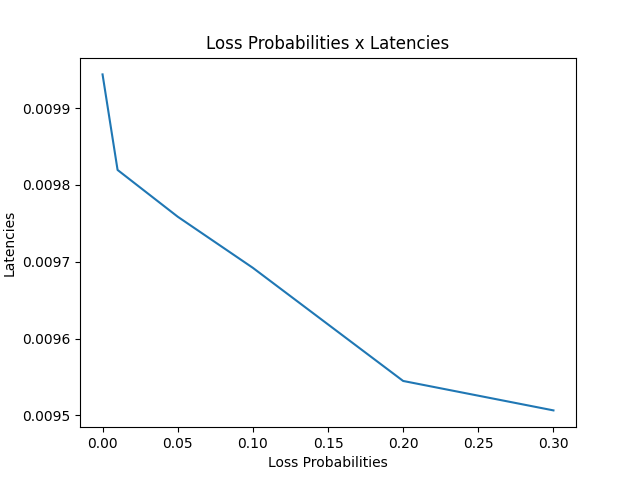
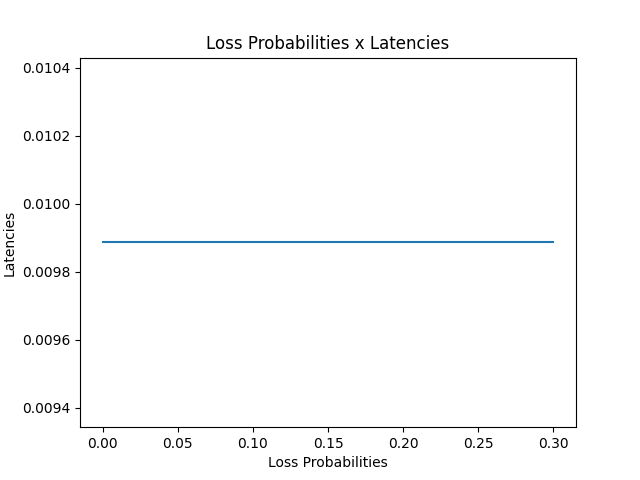
chore: updated README.md so it contains information about demo.ps1

diff --git a/app/main.cpp b/app/main.cpp
@@ -15,47 +15,76 @@ using namespace kns;
 
 int main(int argc, char* argv[]) {
 
-    std::cout << "Starting..." << std::endl;
+    std::cout << "Starting...\n";
 
-	if (argc < 2) {
-		std::cerr << "Usage: ./kns_app <topology_file> (e.g: if you are in app, then use ./topologies/mesh.json)\n";
-		return 1;
-	}
+    if (argc < 2) {
+        std::cerr << "Usage: ./kns_app <topology_file> "
+                     "(e.g: ./topologies/mesh.json)\n";
+        return 1;
+    }
 
+    kns::RunConfig runConfig{"results.csv", 1};
 
-    kns::RunConfig runConfig = {"results.csv", 1};
+    std::string path = argv[1];
 
-	std::string path = argv[1];
+    for (int i = 1; i < argc; i++) {
 
-    Topology topo = TopologyLoader::load_topology(path);
+        if (i + 1 >= argc) continue;
 
-    for (int i = 0; i < argc; i++) {
+        std::string arg = argv[i];
+        std::string value = argv[i + 1];
 
-        if (i+1 < argc) {
+        if (arg == "--seed") {
+            runConfig.seed = std::stoi(value);
 
-            if (std::string(argv[i]) == "--seed") {
-                runConfig.seed = std::stoi(argv[i+1]);
+        } 
+        else if (arg == "--out") {
+            runConfig.filename = value;
+        }
+        else if (arg == "--packet_size") {
 
-            } else if (std::string(argv[i]) == "--out") {
-                runConfig.filename = argv[i+1];
+            int size = std::stoi(value);
 
-            } else if (std::string(argv[i]) == "--loss_prob") {
-                if (std::stod(argv[i+1]) >= 0.0 && std::stod(argv[i+1]) <= 1.0) {
-                    std::vector<std::vector<Link>>& links = topo.getLinks();
-
-                    for (int j = 0; j < links.size(); j++) {
-                        for (int k = 0; k < links[j].size(); k++) {
-                            links.at(j).at(k).loss_prob = std::stod(argv[i+1]);
-                        }
-                    }
-                } else {
-                    throw std::runtime_error("Invalid value for loss_prob (should be between 0.0 and 1.0)");
-                }
+            if (size <= 0) {
+                throw std::runtime_error("packet_size must be > 0");
             }
+
+            runConfig.packet_size = size;
         }
     }
 
+    Topology topo = TopologyLoader::load_topology(path);
+
     SimulationEngine engine(topo);
+
+    for (int i = 1; i < argc; i++) {
+
+        if (i + 1 >= argc) continue;
+
+        std::string arg = argv[i];
+        std::string value = argv[i + 1];
+
+        if (arg == "--loss_prob") {
+
+            double prob = std::stod(value);
+
+            if (prob < 0.0 || prob > 1.0) {
+                throw std::runtime_error(
+                    "loss_prob must be between 0.0 and 1.0"
+                );
+            }
+
+            auto& links = topo.getLinks();
+
+            for (auto& row : links) {
+                for (auto& link : row) {
+                    link.loss_prob = prob;
+                }
+            }
+        } 
+    }
+
+    srand(runConfig.seed);
 
     for (int i = 0; i < 100; i++) {
         int source = i % topo.size();
@@ -65,13 +94,11 @@ int main(int argc, char* argv[]) {
             i * 0.01,
             source,
             dest,
-            1500
+            runConfig.packet_size
         );
 
         engine.schedule(std::move(event));
     }
-    
-    srand(runConfig.seed);
 
     engine.run();
 

diff --git a/core/include/engine/core/RunConfig.hpp b/core/include/engine/core/RunConfig.hpp
@@ -6,5 +6,6 @@ namespace kns {
     struct RunConfig {
         std::string filename;
         int seed;
+        int packet_size = 1500;
     };
 }

diff --git a/README.md b/README.md
@@ -1,5 +1,15 @@
 # KNS — Kilop's Network Simulator
 
+## Quick Start
+```bash
+.\scripts\demo.ps1
+```
+
+Prerequisits:
+ - CMake
+ - Visual Studio
+ - Python 3
+
 ## Overview
 
 KNS is a network simulator oriented to events, focusing on determinism, modularity and solid scientific base.
@@ -27,8 +37,8 @@ Build the motor of a network simulator based on discret events that lets:
 	KNS/
 	|-- app/ # Main executable
 	|-- core/ # Main components for the simulation motor
-	|-- docs/ # DOcuments explaining the project
-	|-- results/ # Contains the reuslts of previous experiments
+	|-- docs/ # Documents explaining the project
+	|-- results/ # Contains the results of previous experiments
 	|-- scripts/ # Scripts that automatically run and create graphs
 	|-- tests / # Unitaty tests
 	|-- topologies / # JSON files of topologies models
@@ -40,7 +50,7 @@ Build the motor of a network simulator based on discret events that lets:
 
 On this section we will describe how you should run the scripts in order to have automated tests for your topology
 
-### 1st Enter scripts direcotry
+### 1st Enter scripts directory
 ```bash
 cd scripts
 ```
@@ -55,7 +65,7 @@ cd scripts
 py plot_results.py
 ```
 
-## Runned experiments
+## Results experiments
 
 ![Loss Rate vs Loss Probability](results/loss_rate_vs_loss_prob.png)
 ![Latency vs Loss Probability](results/latency_vs_loss_prob.png)
@@ -68,7 +78,7 @@ py plot_results.py
 
 - C++20
 - CMake
-- Catch2 (unitary tests)
+- Catch2 (unit tests)
 - Ctest
 
 ---

diff --git a/docs/experiments.md b/docs/experiments.md
@@ -14,3 +14,11 @@ they traverse fewer hops.
 And on the second graph, named Loss Rate vs Loss Probability, the loss rate goes up as the loss probability
 goes up, and that relation is simple to be explained. That happens because, as more packets have the chance
 to be dropped, more packets are dropped, and so, the loss rate goes up.
+
+# Experiment 2: Packet Size
+
+On the third graph, being named Latency vs Packet Size, it was tested the relation between latency and 
+the size of the packets. Initially, it was thought that that the latency would grow as the packet sizes grows.
+ We can see that the packet sizes grow linearly as the latency grows, and that makes sense since the 
+latency is based on the packet size according to the formula transmission = (size * 8) / bandwidth.
+It was tested with the values 1500, 3000, 4500 and 6000.
